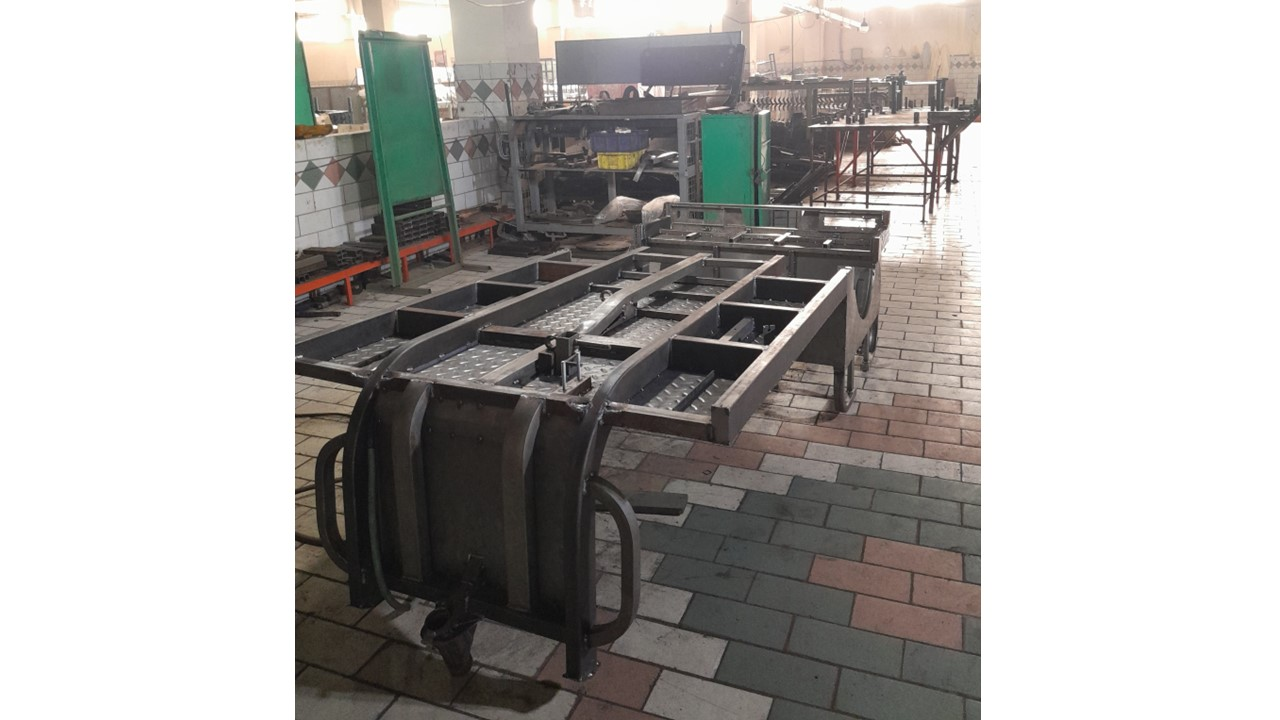
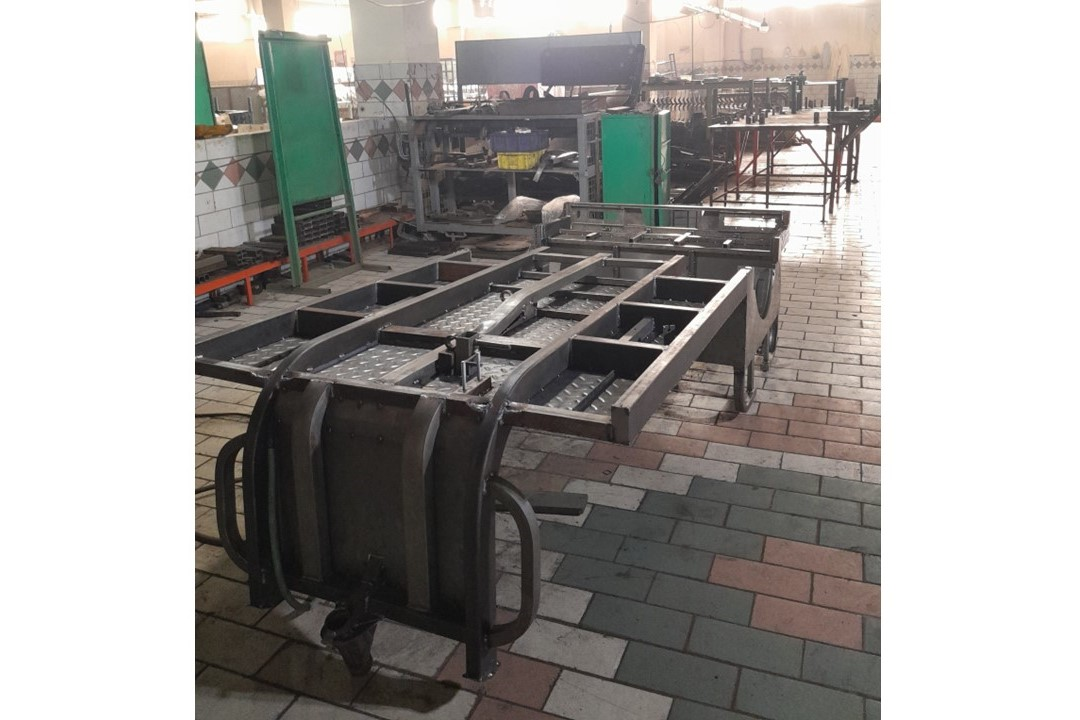
Production Facility

Changed region(s): [[0.1833, 0.0, 0.825, 1.0], [0.3972, 0.7333, 0.4278, 0.7639]]

diff --git a/production-facility.html b/production-facility.html
@@ -351,20 +351,6 @@
           <div class="col-lg-6 col-md-6 mb-4">
             <div class="card shadow mb-3 bg-white rounded">
               <img
-                src="assets/images/Production facility/P-32.jpg"
-                class="card-img-top border-bottom"
-                alt="Hydraulic Press P-32"
-                data-product-name="Hydraulic Press P-32"
-                data-product-image="assets/images/Production facility/P-32.jpg"
-              />
-              <div class="card-body">
-                <h5 class="card-title">P-32</h5>
-              </div>
-            </div>
-          </div>
-          <div class="col-lg-6 col-md-6 mb-4">
-            <div class="card shadow mb-3 bg-white rounded">
-              <img
                 src="assets/images/Production facility/P-29.jpg"
                 class="card-img-top border-bottom"
                 alt="Hydraulic Press P-29"
@@ -443,6 +429,27 @@
         </div>
         <!-- Row 5 -->
         <h2 class="mt-5 mb-4 bold-text" id="decks">
+          <i class="fa fa-xing"></i> Chassis Line
+        </h2>
+        <div class="row">
+          <div class="col-lg-6 col-md-6 mb-4">
+            <div class="card shadow mb-3 bg-white rounded">
+              <img
+                src="assets/images/Production facility/Chassis Line.jpg"
+                class="card-img-top border-bottom"
+                alt="Chassis Line"
+                data-product-name="Chassis Line"
+                data-product-image="assets/images/Production facility/Chassis Line.jpg"
+              />
+              <div class="card-body">
+                <h5 class="card-title">Chassis Line</h5>
+              </div>
+            </div>
+          </div>
+          <!-- Repeat similar card structure for other   -->
+        </div>
+        <!-- Row 6 -->
+        <h2 class="mt-5 mb-4 bold-text" id="decks">
           <i class="fa fa-xing"></i> CNC Machines
         </h2>
         <div class="row">
@@ -476,7 +483,7 @@
           </div>
           <!-- Repeat similar card structure for other   -->
         </div>
-        <!-- Row 6 -->
+        <!-- Row 7 -->
         <h2 class="mt-5 mb-4 bold-text" id="decks">
           <i class="fa fa-xing"></i> Standby Generator
         </h2>
@@ -525,7 +532,7 @@
           </div>
           <!-- Repeat similar card structure for other   -->
         </div>
-        <!-- Row 6 -->
+        <!-- Row 8 -->
         <h2 class="mt-5 mb-4 bold-text" id="decks">
           <i class="fa fa-xing"></i> Compressor
         </h2>
